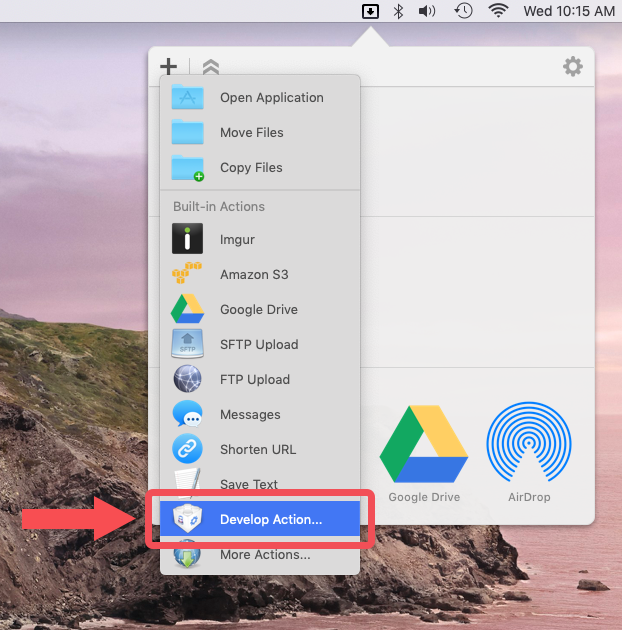
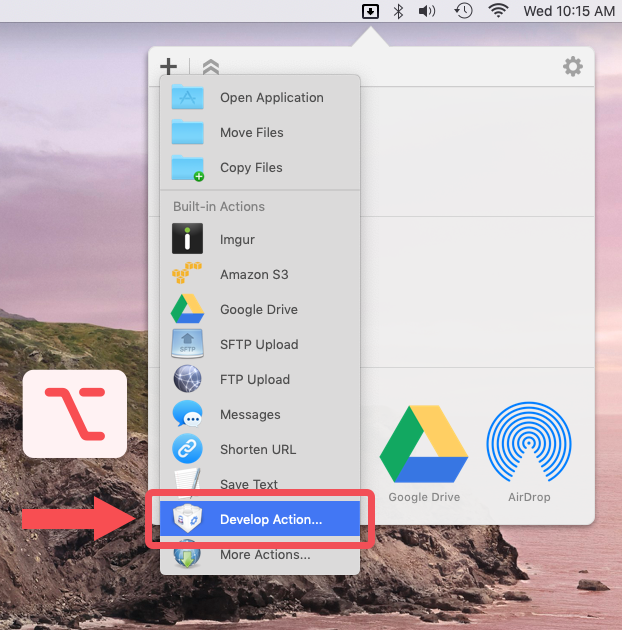
update README.md, develop-action.png and list_on_website.txt

Changed region(s): [[0.0305, 0.573, 0.2138, 0.754]]

diff --git a/README.md b/README.md
@@ -64,7 +64,7 @@ A Dropzone 4 action bundle is simply a directory with a .dzbundle extension. It 
 
 ## Developing an Action
 
-The easiest way to develop a new Dropzone 4 action is to click the white plus in the top left of the grid and choose the 'Develop Action...' item. 
+To develop a new Dropzone 4 action, click the white plus icon in the top left corner of the Dropzone grid and select 'Develop Action...' Hold down the option key to make the 'Develop Action...' item appear.
 
 ![Develop Action](https://raw.githubusercontent.com/aptonic/dropzone4-actions/master/docs/develop-action.png)
 <br>
